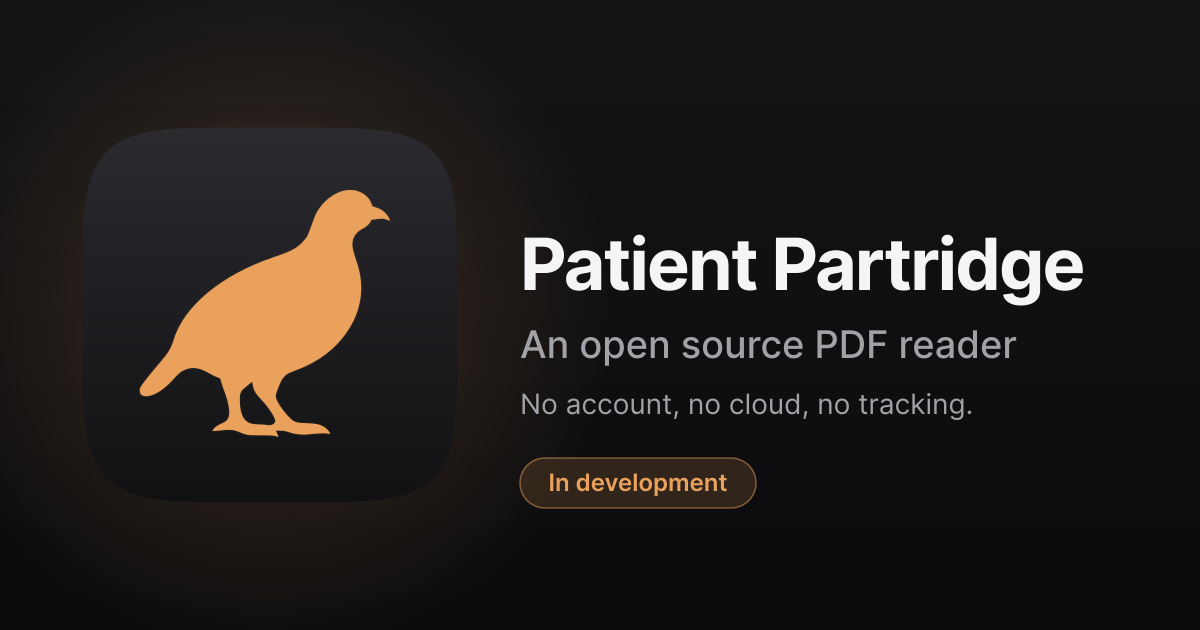
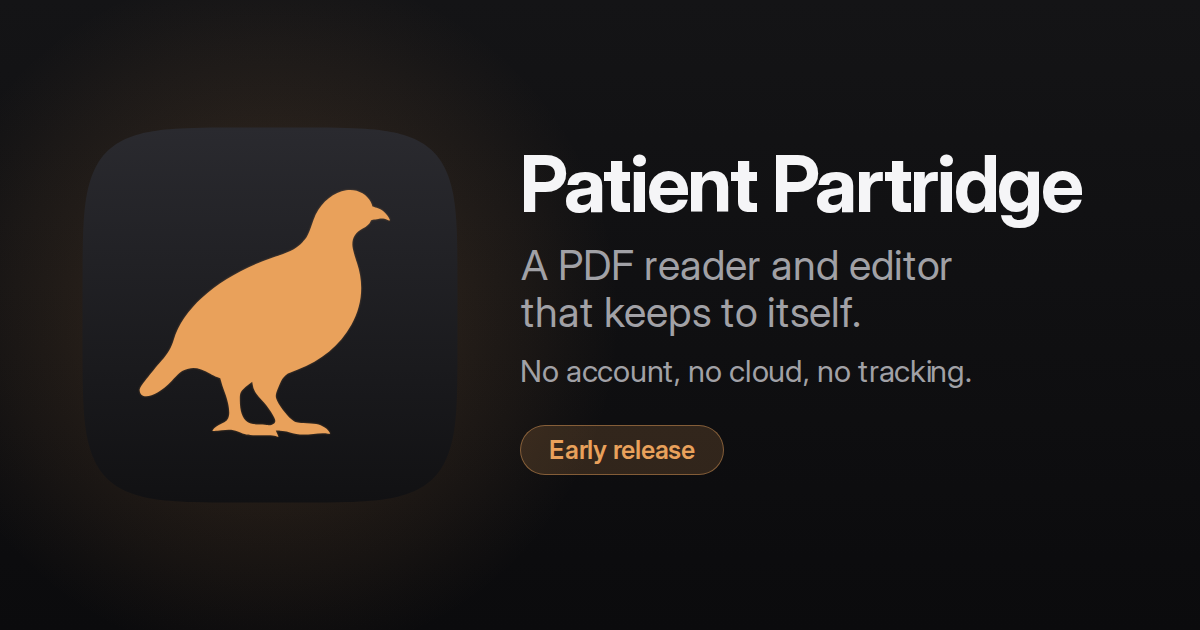
docs(site): draw the social image with the tagline of the page

Changed region(s): [[0.4317, 0.2413, 0.925, 0.8143]]

diff --git a/site/index.html b/site/index.html
@@ -27,7 +27,7 @@
     <meta property="og:image:type" content="image/png" />
     <meta property="og:image:width" content="1200" />
     <meta property="og:image:height" content="630" />
-    <meta property="og:image:alt" content="Patient Partridge: an amber partridge on a dark tile, next to the title, the tagline An open source PDF reader, and the note In development." />
+    <meta property="og:image:alt" content="Patient Partridge: an amber partridge on a dark tile, next to the title, the tagline A PDF reader and editor that keeps to itself, the line No account, no cloud, no tracking, and the note Early release." />
     <meta name="twitter:card" content="summary_large_image" />
     <meta name="twitter:title" content="Patient Partridge — an open source PDF reader and editor (early release)" />
     <meta name="twitter:description" content="A PDF reader and editor that needs no account, no cloud and no tracking. Reading works today; editing is planned. Open source, from the Hedgerow family. Version 0.1.0 is an early release." />
